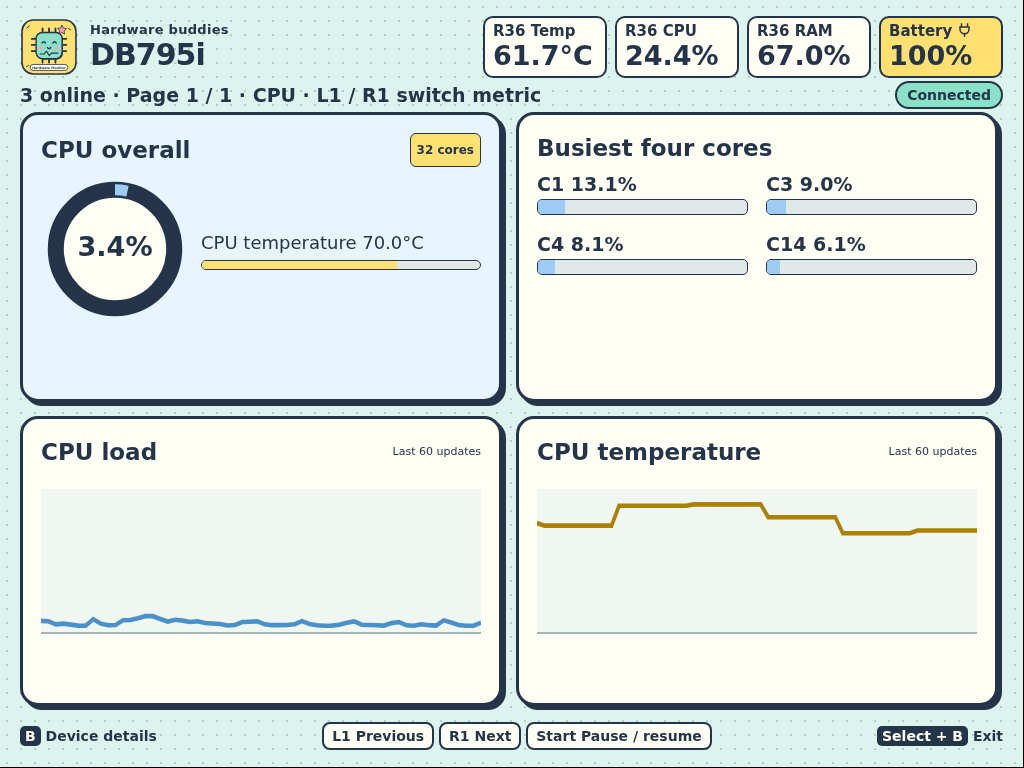
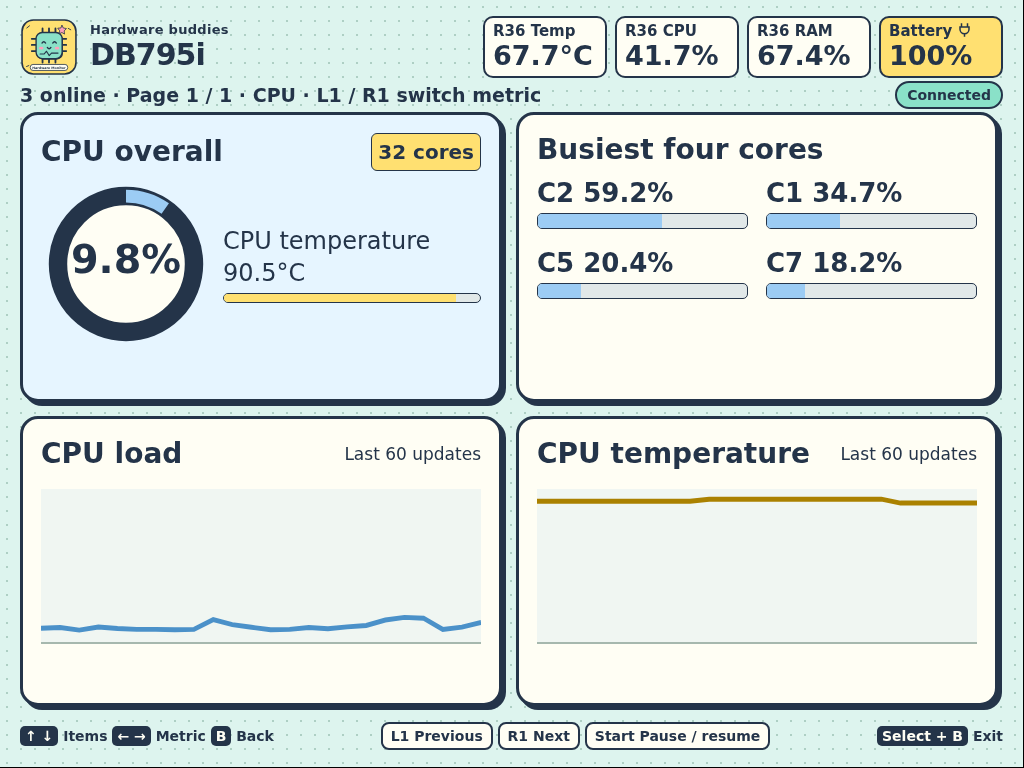
feat: enlarge metric detail views and paginate device lists

diff --git a/browser/monitor.html b/browser/monitor.html
@@ -69,6 +69,43 @@ header h1,body.device-summary h1{max-width:360px;font-size:30px}
 #charge-icon svg{width:15px;height:16px;vertical-align:-2px}
 #connection{position:absolute;top:81px;right:20px;font-size:14px;padding:4px 10px}
 #summary{max-width:calc(100% - 230px);white-space:nowrap;overflow:hidden;text-overflow:ellipsis}
+
+.focus-grid h3,.focus-list>.panel:first-child h3{font-size:28px;line-height:34px}
+.focus-grid .gauge{width:170px;height:170px}
+.focus-grid .gauge text,.focus-gpus .gauge text{font-size:28px}
+.focus-grid .sensor{font-size:24px;line-height:32px}
+.focus-grid .core{font-size:26px;line-height:32px}
+.focus-grid .big{font-size:36px;line-height:42px}
+.focus-grid .mini-label{font-size:22px;line-height:28px}
+.focus-grid .tag{font-size:20px}
+.focus-grid .history-note{font-size:17px}
+.focus-grid .focus-chart svg{height:155px;margin-top:10px}
+.gpu-focus-page{height:100%;display:grid;grid-template-rows:40px minmax(0,1fr);gap:10px}
+.gpu-page-heading{font-size:26px;line-height:34px;display:flex;justify-content:space-between;align-items:center}
+.item-pager{font-size:20px;white-space:nowrap;float:right}
+.item-pager button{font-size:20px;padding:0 8px;line-height:27px}
+.item-pager button:disabled{opacity:.4;cursor:default}
+.focus-gpus .gpu-name{font-size:26px;line-height:32px;margin-bottom:10px}
+.focus-gpus .gauge{width:138px;height:138px}
+.focus-gpus .sensor{font-size:24px;line-height:32px}
+.focus-gpus .focus-chart small{font-size:21px;line-height:28px}
+.focus-gpus .focus-chart svg{height:115px;margin-top:8px}
+.focus-list{grid-template-rows:170px 100px minmax(0,1fr)}
+.focus-list>.panel{padding:10px 14px}
+.focus-list .io-totals strong{font-size:38px;line-height:44px;margin:2px 0 4px}
+.focus-list .io-totals small,.focus-list .mini-label{font-size:20px;line-height:26px}
+.focus-list .big{font-size:38px;line-height:44px;margin:3px 0}
+.focus-list .graphs-pair{font-size:22px;line-height:28px}
+.focus-list .graphs-pair svg{height:43px;margin-top:6px}
+.item-grid{grid-template-columns:repeat(2,minmax(0,1fr));grid-template-rows:repeat(2,minmax(0,1fr))}
+.item-card h4{font-size:24px;line-height:28px;margin-bottom:5px}
+.item-card .sensor{font-size:22px;line-height:28px}
+.item-card .track{height:9px;margin-top:2px}
+.item-card .item-extra{font-size:18px;line-height:22px}
+.focus-activity h3{font-size:24px;line-height:30px}
+.focus-activity strong{font-size:32px;line-height:38px}
+.focus-activity small{font-size:18px;line-height:24px}
+.focus-activity svg{height:115px;margin-top:12px}
 </style>
 <header><img src="/assets/hardware-buddy.svg" alt="Smiling chip mascot"><div><div class="brand-note">Hardware buddies</div><h1 id="title">Hardware Monitor</h1></div><aside id="device-status" aria-label="R36 handheld status"><div><small>R36 Temp</small><strong id="local-temp">—</strong></div><div><small>R36 CPU</small><strong id="local-cpu">—</strong></div><div><small>R36 RAM</small><strong id="local-memory">—</strong></div><div id="local-battery-box"><small>Battery <span id="charge-icon"></span></small><strong id="local-battery">—</strong></div></aside><span id="connection">Connecting…</span></header>
 <div id="summary"></div><main id="main"></main>
@@ -95,7 +132,7 @@ function vramPercent(g){if(g.memory_total_mb===0)return '—';return numeric(g.m
 function mainVram(gpus){return gpus.filter(g=>numeric(g.memory_total_mb)&&g.memory_total_mb>0).sort((a,b)=>(b.memory_used_mb??0)-(a.memory_used_mb??0))[0]??gpus.find(g=>numeric(g.memory_percent))??{}}
 
 function bar(value,color,max=100){const width=numeric(value)?Math.min(100,Math.max(0,value/max*100)):0;return `<div class="track" style="--color:${color}"><div class="fill" style="width:${width}%"></div></div>`}
-function gauge(value,color,label){let percent=numeric(value)?Math.min(100,Math.max(0,value)):0;return `<svg class="gauge" viewBox="0 0 120 120" role="img" aria-label="${esc(label)} ${fmt(value,'%')}"><circle cx="60" cy="60" r="48" fill="#fffef4" stroke="#243449" stroke-width="13"/><circle cx="60" cy="60" r="48" fill="none" stroke="${color}" stroke-width="9" pathLength="100" stroke-dasharray="${percent} 100" transform="rotate(-90 60 60)"/><text x="60" y="66" text-anchor="middle">${fmt(value,'%')}</text></svg>`}
+function gauge(value,color,label){let percent=numeric(value)?Math.min(100,Math.max(0,value)):0;return `<svg class="gauge" viewBox="0 0 120 120" role="img" aria-label="${esc(label)} ${fmt(value,'%')}"><circle cx="60" cy="60" r="48" fill="#fffef4" stroke="#243449" stroke-width="13"/><circle cx="60" cy="60" r="48" fill="none" stroke="${color}" stroke-width="9" pathLength="100" stroke-dasharray="${percent} 100" transform="rotate(-90 60 60)"/><text x="60" y="66" text-anchor="middle">${numeric(value)&&value>=100?'100%':fmt(value,'%')}</text></svg>`}
 function temperature(value,label='Temperature'){return `<div class="sensor">${esc(label)} ${fmt(value,'°C')}${bar(value,'#ffe071',100)}</div>`}
 function busiest(cores){return cores.map((value,index)=>({value,index})).filter(c=>numeric(c.value)).sort((a,b)=>b.value-a.value||a.index-b.index).slice(0,4)}
 function gpuCard(g,i){let used=g.memory_total_mb===0?null:(numeric(g.memory_percent)?g.memory_percent:(numeric(g.memory_used_mb)&&numeric(g.memory_total_mb)&&g.memory_total_mb>0?g.memory_used_mb/g.memory_total_mb*100:null));return `<div class="gpu-card"><div class="gpu-name">${esc(g.name??g.product_name??`GPU ${i+1}`)}</div><div class="instrument">${gauge(g.usage_percent,'#ff9fbb','GPU load')}<div>${temperature(g.temperature_celsius)}<div class="sensor">VRAM ${vram(g)} · ${vramPercent(g)}${bar(used,'#ff9fbb')}</div></div></div></div>`}
@@ -121,16 +158,18 @@ function detail(host){const m=host.metrics;
 const sectionLabels={cpu:'CPU',gpu:'GPU',memory:'Memory',network:'Network',disks:'Disk I/O',temperatures:'Temperatures',history:'Activity trails'};
 function chartPanel(label,history,key,color,limit=100){return `<section class="panel focus-chart"><h3>${esc(label)}<span class="history-note">Last 60 updates</span></h3>${graph(history,key,color,limit)}</section>`}
 function gpuHistory(history,index){return history.map(sample=>sample.gpus?.[index]??{})}
-function focusDetail(host,section){let m=host.metrics,h=host.history;
+function pageItems(rows,page,size=4){const count=Math.max(1,Math.ceil(rows.length/size)),index=((page%count)+count)%count;return rows.slice(index*size,(index+1)*size)}
+function itemPager(rows,page,size=4){const count=Math.max(1,Math.ceil(rows.length/size)),index=((page%count)+count)%count;return `<span class="item-pager"><button onclick="control('up')" ${count===1?'disabled':''}>↑</button> ${index+1} / ${count} <button onclick="control('down')" ${count===1?'disabled':''}>↓</button></span>`}
+function focusDetail(host,section,page=0){let m=host.metrics,h=host.history;
  if(section==='cpu')return `<div class="focus-grid"><section class="panel cpu-panel"><h3>CPU overall <span class="tag">${m.cores.length} cores</span></h3><div class="instrument">${gauge(m.cpu,'#9cccf4','CPU load')}<div>${temperature(m.cpu_temp,'CPU temperature')}</div></div></section><section class="panel"><h3>Busiest four cores</h3><div class="cores">${busiest(m.cores).map(c=>`<div class="core">C${c.index+1} ${fmt(c.value,'%')}${bar(c.value,'#9cccf4')}</div>`).join('')||'No per-core data'}</div></section>${chartPanel('CPU load',h,'cpu','#4b91c9')}${chartPanel('CPU temperature',h,'cpu_temp','#aa8100',100)}</div>`;
- if(section==='gpu')return m.gpus.length?`<div class="focus-gpus ${m.gpus.length>2?'compact':m.gpus.length===1?'single':''}">${m.gpus.map((g,i)=>`<section class="panel gpu-panel">${gpuCard(g,i)}<div class="focus-chart"><small>GPU ${i+1} load · last 60 updates</small>${graph(gpuHistory(h,i),'load','#ce648b')}</div><div class="focus-chart"><small>VRAM usage · last 60 updates</small>${graph(gpuHistory(h,i),'vram','#9860bd')}</div></section>`).join('')}</div>`:'<div class="empty">No GPU data reported by this computer</div>';
+ if(section==='gpu')return m.gpus.length?`<div class="gpu-focus-page"><div class="gpu-page-heading">GPU devices ${itemPager(m.gpus,page,2)}</div><div class="focus-gpus ${pageItems(m.gpus,page,2).length===1?'single':''}">${pageItems(m.gpus.map((g,i)=>({g,i})),page,2).map(({g,i})=>`<section class="panel gpu-panel">${gpuCard(g,i)}<div class="focus-chart"><small>GPU ${i+1} load · last 60 updates</small>${graph(gpuHistory(h,i),'load','#ce648b')}</div><div class="focus-chart"><small>VRAM usage · last 60 updates</small>${graph(gpuHistory(h,i),'vram','#9860bd')}</div></section>`).join('')}</div></div>`:'<div class="empty">No GPU data reported by this computer</div>';
  if(section==='memory')return `<div class="focus-grid"><section class="panel memory-panel"><h3>RAM usage</h3><div class="instrument">${gauge(m.ram,'#8ae1c8','RAM')}<div><div class="big">${bytes(m.ram_used)}</div><div class="mini-label">Used of ${bytes(m.ram_total)}</div><div class="mini-label">Available ${numeric(m.ram_total)&&numeric(m.ram_used)?bytes(Math.max(0,m.ram_total-m.ram_used)):'—'}</div></div></div></section><section class="panel"><h3>Swap usage</h3>${gauge(m.swap,'#ffe071','Swap')}</section>${chartPanel('RAM history',h,'ram','#379d7a')}${chartPanel('Swap history',h,'swap','#aa8100')}</div>`;
  if(section==='history')return `<div class="focus-activity">${[['CPU','cpu','#4b91c9',100],['GPU','gpu','#ce648b',100],['Memory','ram','#379d7a',100],['Download','rx','#4b91c9',null],['Upload','tx','#379d7a',null],['Disk read','read','#aa8100',null],['Disk write','write','#9860bd',null]].map(([label,key,color,max])=>`<section class="panel"><h3>${label}</h3><strong>${max===100?fmt(m[key],'%'):rate(m[key])}</strong>${graph(h,key,color,max)}<small>Last 60 updates</small></section>`).join('')}</div>`;
- if(section==='temperatures'){let rows=sensors(m.temperatures),highest=rows[0]?.value;return `<div class="focus-list"><section class="panel"><h3>Temperatures <span class="tag">${rows.length} sensors</span></h3><div class="big">Hottest ${fmt(highest,'°C')}</div><div class="mini-label">${rows.length>12?'Hottest 12 sensors shown':'All reported sensors'}</div></section><section class="panel graphs-pair"><div>CPU temperature${graph(h,'cpu_temp','#aa8100',100)}</div><div>GPU temperature${graph(h,'gpu_temp','#ce648b',100)}</div></section><div class="item-grid">${rows.slice(0,12).map(t=>`<div class="item-card"><h4>${esc(t.name)}</h4>${temperature(t.value)}</div>`).join('')||'<div>No sensors reported</div>'}</div></div>`}
+ if(section==='temperatures'){let rows=sensors(m.temperatures),highest=rows[0]?.value;return `<div class="focus-list"><section class="panel"><h3>Temperatures <span class="tag">${rows.length} sensors</span></h3><div class="big">Hottest ${fmt(highest,'°C')}</div><div class="mini-label">${itemPager(rows,page)}</div></section><section class="panel graphs-pair"><div>CPU temperature${graph(h,'cpu_temp','#aa8100',100)}</div><div>GPU temperature${graph(h,'gpu_temp','#ce648b',100)}</div></section><div class="item-grid">${pageItems(rows,page).map(t=>`<div class="item-card"><h4>${esc(t.name)}</h4>${temperature(t.value)}</div>`).join('')||'<div>No sensors reported</div>'}</div></div>`}
  let network=section==='network',rows=Object.entries(network?m.network?.per_nic??{}:m.disks??{}),first=network?'rx_bytes_per_s':'read_bytes_per_s',second=network?'tx_bytes_per_s':'write_bytes_per_s';
  rows.sort((a,b)=>((b[1]?.rate?.[first]??0)+(b[1]?.rate?.[second]??0))-((a[1]?.rate?.[first]??0)+(a[1]?.rate?.[second]??0)));
  let limit=Math.max(1,...rows.flatMap(([_,entry])=>[entry?.rate?.[first],entry?.rate?.[second]]).filter(numeric));
- return `<div class="focus-list"><section class="panel"><h3>${network?'Network interfaces':'Disk devices'} <span class="tag">${rows.length} ${network?'interfaces':'devices'}</span></h3><div class="io-totals"><div><small>${network?'Total download':'Total read'}</small><strong>${rate(network?m.rx:m.read)}</strong></div><div><small>${network?'Total upload':'Total write'}</small><strong>${rate(network?m.tx:m.write)}</strong></div></div><div class="mini-label">${rows.length>12?'Busiest 12 shown; totals include all devices':'All reported devices'}</div></section><section class="panel graphs-pair"><div>${network?'Download':'Read'}${graph(h,network?'rx':'read','#4b91c9',null)}</div><div>${network?'Upload':'Write'}${graph(h,network?'tx':'write','#379d7a',null)}</div></section><div class="item-grid">${rows.slice(0,12).map(([name,entry])=>`<div class="item-card"><h4>${esc(name)}</h4><div class="sensor">${network?'↓':'Read'} ${rate(entry?.rate?.[first])}${bar(entry?.rate?.[first],'#9cccf4',limit)}</div><div class="sensor">${network?'↑':'Write'} ${rate(entry?.rate?.[second])}${bar(entry?.rate?.[second],'#8ae1c8',limit)}</div>${network?'':`<div class="sensor">IOPS R ${fmt(entry?.rate?.read_iops)} / W ${fmt(entry?.rate?.write_iops)}</div>`}</div>`).join('')||'<div>No device data reported</div>'}</div></div>`;
+ return `<div class="focus-list"><section class="panel"><h3>${network?'Network interfaces':'Disk devices'} <span class="tag">${rows.length} ${network?'interfaces':'devices'}</span></h3><div class="io-totals"><div><small>${network?'Total download':'Total read'}</small><strong>${rate(network?m.rx:m.read)}</strong></div><div><small>${network?'Total upload':'Total write'}</small><strong>${rate(network?m.tx:m.write)}</strong></div></div><div class="mini-label">Totals include all devices ${itemPager(rows,page)}</div></section><section class="panel graphs-pair"><div>${network?'Download':'Read'}${graph(h,network?'rx':'read','#4b91c9',null)}</div><div>${network?'Upload':'Write'}${graph(h,network?'tx':'write','#379d7a',null)}</div></section><div class="item-grid">${pageItems(rows,page).map(([name,entry])=>`<div class="item-card"><h4>${esc(name)}</h4><div class="sensor">${network?'↓':'Read'} ${rate(entry?.rate?.[first])}${bar(entry?.rate?.[first],'#9cccf4',limit)}</div><div class="sensor">${network?'↑':'Write'} ${rate(entry?.rate?.[second])}${bar(entry?.rate?.[second],'#8ae1c8',limit)}</div>${network?'':`<div class="sensor item-extra">IOPS R ${fmt(entry?.rate?.read_iops)} / W ${fmt(entry?.rate?.write_iops)}</div>`}</div>`).join('')||'<div>No device data reported</div>'}</div></div>`;
 }
 let updating=false;
 let viewKey='', renderedAt=0,lastSelection=null,lastPanel=null;
@@ -149,11 +188,11 @@ function render(s){
  document.getElementById('connection').textContent=s.connection;
  document.getElementById('connection').className=s.connection==='Connected'?'':'error';
  document.getElementById('title').textContent=s.detail||'Hardware Monitor';
- document.getElementById('help').innerHTML=s.detail?(s.focus?'<kbd>B</kbd> Device details':'<kbd>Stick / D-pad</kbd> Select <kbd>A</kbd> Open <kbd>B</kbd> Back'):'<kbd>Stick / D-pad</kbd> Select <kbd>A</kbd> Details';
+ document.getElementById('help').innerHTML=s.detail?(s.focus?'<kbd>↑ ↓</kbd> Items <kbd>← →</kbd> Metric <kbd>B</kbd> Back':'<kbd>Stick / D-pad</kbd> Select <kbd>A</kbd> Open <kbd>B</kbd> Back'):'<kbd>Stick / D-pad</kbd> Select <kbd>A</kbd> Details';
  document.getElementById('summary').textContent=`${s.count} online · Page ${s.page} / ${s.pages} · ${s.focus?sectionLabels[s.focus]+' · L1 / R1 switch metric':s.detail?'Live usage · A: metric details':s.paused?'Paused · press Start to resume':'Auto · 15 seconds per page'}`;
- let root=document.getElementById('main'),key=JSON.stringify([s.detail,s.focus,s.hosts.map(h=>h.host)]),now=performance.now();
+ let root=document.getElementById('main'),key=JSON.stringify([s.detail,s.focus,s.item_page??0,s.hosts.map(h=>h.host)]),now=performance.now();
  // Metrics redraw once per second; selection responds to every event.
- if(key!==viewKey||(now-renderedAt>=1000&&s.selected===lastSelection&&s.panel===lastPanel)){root.innerHTML=s.hosts.length?(s.detail?(s.focus?focusDetail(s.hosts[0],s.focus):detail(s.hosts[0])):'<div class="overview-grid">'+s.hosts.map(h=>overview(h,s.selected)).join('')+'</div>'):'<div class="empty"><div><img src="/assets/hardware-buddy.svg" alt="">No buddies online yet<br><small>Waiting for computer monitoring data</small></div></div>';viewKey=key;renderedAt=now;root.querySelectorAll('.detail-grid>.panel').forEach((p,i)=>{p.dataset.section=Object.keys(sectionLabels)[i];p.setAttribute('role','button');p.tabIndex=0;p.setAttribute('aria-label','Open '+sectionLabels[p.dataset.section]+' details')})}
+ if(key!==viewKey||(now-renderedAt>=1000&&s.selected===lastSelection&&s.panel===lastPanel)){root.innerHTML=s.hosts.length?(s.detail?(s.focus?focusDetail(s.hosts[0],s.focus,s.item_page??0):detail(s.hosts[0])):'<div class="overview-grid">'+s.hosts.map(h=>overview(h,s.selected)).join('')+'</div>'):'<div class="empty"><div><img src="/assets/hardware-buddy.svg" alt="">No buddies online yet<br><small>Waiting for computer monitoring data</small></div></div>';viewKey=key;renderedAt=now;root.querySelectorAll('.detail-grid>.panel').forEach((p,i)=>{p.dataset.section=Object.keys(sectionLabels)[i];p.setAttribute('role','button');p.tabIndex=0;p.setAttribute('aria-label','Open '+sectionLabels[p.dataset.section]+' details')})}
  root.querySelectorAll('article').forEach(a=>a.classList.toggle('selected',a.dataset.host===s.selected));
  root.querySelectorAll('[data-section]').forEach(p=>{p.classList.toggle('selected',p.dataset.section===s.panel);p.setAttribute('aria-pressed',String(p.dataset.section===s.panel))});
  lastSelection=s.selected;lastPanel=s.panel;

diff --git a/browser/monitor.py b/browser/monitor.py
@@ -126,6 +126,7 @@ class Monitor:
         self.focus = None
         self.panel = 0
         self.scroll = 0
+        self.item_page = 0
         self.paused = False
         self.last_page = time.monotonic()
         self.connection = 'Not configured'
@@ -211,9 +212,11 @@ class Monitor:
                 if action.startswith('focus:') and self.detail is not None and action[6:] in SECTIONS:
                     self.focus = action[6:]
                     self.panel = SECTIONS.index(self.focus)
+                    self.item_page = 0
                 elif action in ('previous', 'next') and self.focus is not None:
                     self.panel = (self.panel + (1 if action == 'next' else -1)) % len(SECTIONS)
                     self.focus = SECTIONS[self.panel]
+                    self.item_page = 0
                 elif action in ('previous', 'next'):
                     pages = (len(order) + 2) // 3
                     page = (index // 3 + (1 if action == 'next' else -1)) % pages
@@ -227,6 +230,8 @@ class Monitor:
                                      'left': {1: 0, 2: 1, 4: 3, 6: 5},
                                      'right': {0: 1, 1: 2, 3: 4, 5: 6}}
                         self.panel = neighbors[action].get(self.panel, self.panel)
+                    elif self.focus in ('gpu', 'network', 'disks', 'temperatures'):
+                        self.item_page += 1 if action == 'down' else -1
                     else:
                         return
                 elif action in ('up', 'down') and self.detail is None:
@@ -240,6 +245,7 @@ class Monitor:
                     elif self.focus is None:
                         self.focus = SECTIONS[self.panel]
                     self.scroll = 0
+                    self.item_page = 0
                 else:
                     return
                 self.paused = True
@@ -253,7 +259,7 @@ class Monitor:
             page = order.index(self.selected) // 3 if order else 0
             visible = [self.detail] if self.detail else order[page * 3:page * 3 + 3]
             return {'device': self.device.sample(), 'connection': self.connection, 'paused': self.paused, 'detail': self.detail,
-                    'focus': self.focus, 'panel': SECTIONS[self.panel],
+                    'focus': self.focus, 'panel': SECTIONS[self.panel], 'item_page': self.item_page,
                     'selected': self.selected, 'page': page + 1, 'pages': max(1, (len(order) + 2) // 3),
                     'count': len(order), 'bad_messages': self.bad_messages,
                     'scroll': self.scroll,

diff --git a/browser/test_monitor.py b/browser/test_monitor.py
@@ -144,3 +144,14 @@ with TemporaryDirectory() as directory:
     unknown=LocalStatus(root/'missing',root/'missing',root/'missing').sample(0)
     assert all(unknown[key] is None for key in ('cpu','memory','temperature','battery'))
 print('PASS: handheld CPU delta, cached reads, memory, temperature, battery/charging/full/unplugged/unknown')
+
+state.action('focus:gpu')
+state.action('down')
+assert state.snapshot()['item_page'] == 1
+state.action('up');state.action('up')
+assert state.snapshot()['item_page'] == -1 and state.scroll == 0
+state.action('right')
+assert state.snapshot()['item_page'] == 0 and state.focus == 'memory'
+state.action('down')
+assert state.snapshot()['item_page'] == 0
+print('PASS: metric item paging, reverse paging, reset when changing metric, no scrolling')

diff --git a/README.md b/README.md
@@ -32,7 +32,7 @@
 
 ![GPU 單項詳細頁的負載、VRAM 與趨勢](browser/comic-gpu-tested.png)
 
-單項頁仍採整屏版面，使用 L1／R1 切換資訊類別，按 B 返回設備詳細頁，再按 B 返回總覽。網路、磁碟和溫度的單項頁最多列出 12 個項目；更多項目會以文字標明，網路與磁碟總量仍包含全部裝置。
+單項頁仍採整屏版面，使用 L1／R1 切換資訊類別，按 B 返回設備詳細頁，再按 B 返回總覽。單項頁的標題、主要數值與圖表一併放大。GPU 每頁顯示兩張；網路、磁碟和溫度每頁顯示四個項目，上下方向鍵或類比搖桿切換項目頁，也可以按畫面上的箭頭。全部項目均可查看，網路與磁碟總量仍包含全部裝置。
 
 ### 遊戲選單裡的固定入口
 
@@ -54,7 +54,7 @@
 
 | 按鍵 | 操作 |
 | --- | --- |
-| 方向鍵／左右類比搖桿 | 上下選取電腦，左右翻頁；設備詳細頁依卡片位置四方向選取；單項頁左右切換類別 |
+| 方向鍵／左右類比搖桿 | 上下選取電腦，左右翻頁；設備詳細頁依卡片位置四方向選取；單項頁左右切換類別、上下切換項目頁 |
 | A | 進入設備詳細頁，再進入選定資訊卡的單項頁；輪播保持暫停 |
 | B | 逐層返回，保持暫停 |
 | L1／R1 | 前後翻頁；單項頁中切換資訊類別；輪播保持暫停 |
